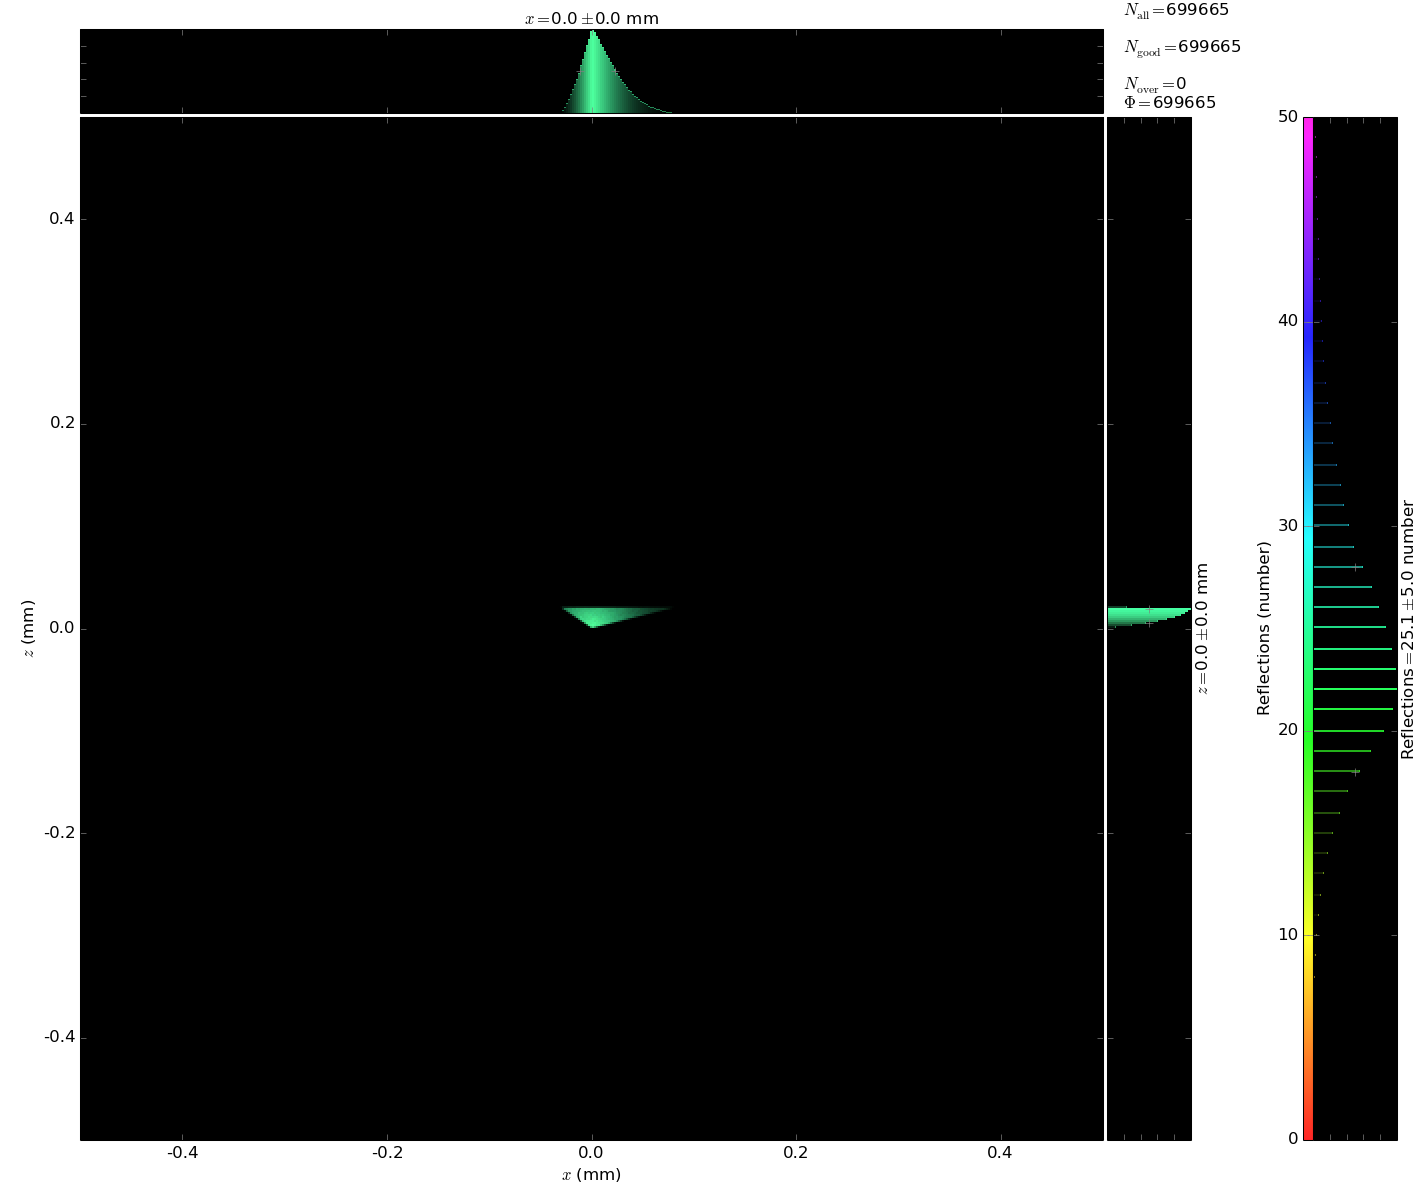
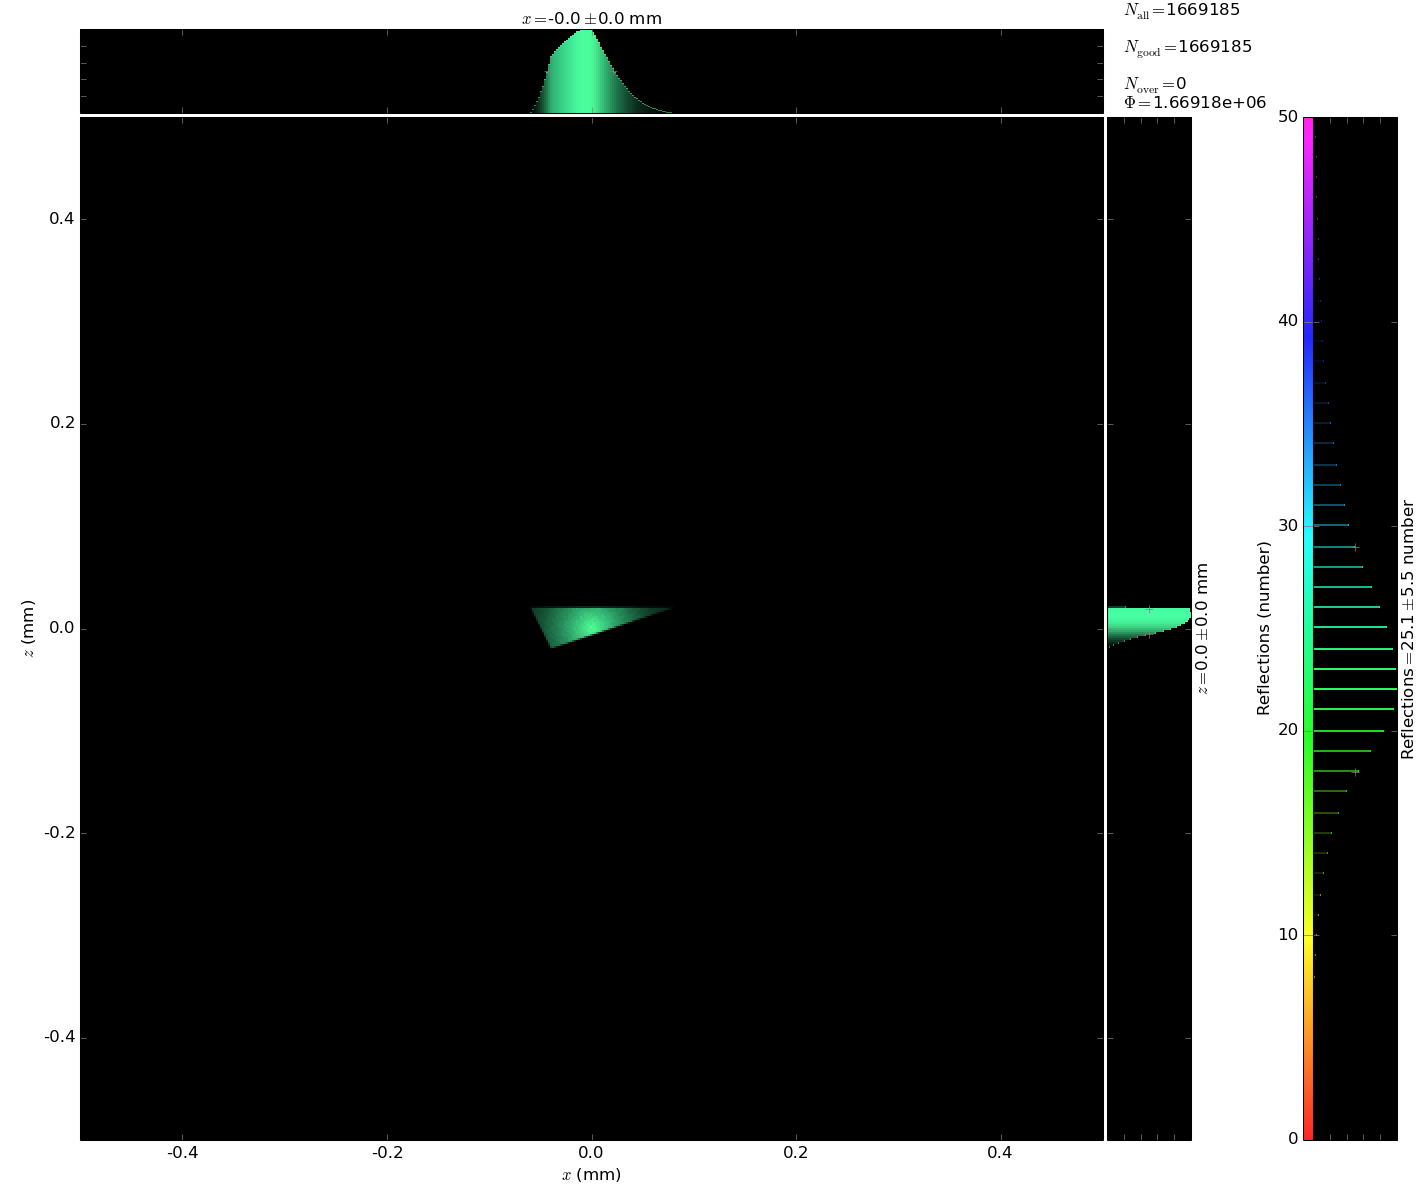
More triangles

diff --git a/utils/cutter.py b/utils/cutter.py
@@ -32,7 +32,7 @@ def make_wires(beam):
 
 def cut_triangle(beam):
     """ Or any other irregular shape using matplotlib.path """
-    triangle = mp.Path([(0,0), (0.08, 0.02), (-0.03, 0.02)])
+    triangle = mp.Path([(-0.04, -0.02), (0.08, 0.02), (-0.06, 0.02)])
 
     # Change 2 lists of coordinates into a list of paired coordinates
     points = zip(beam.x, beam.z)
